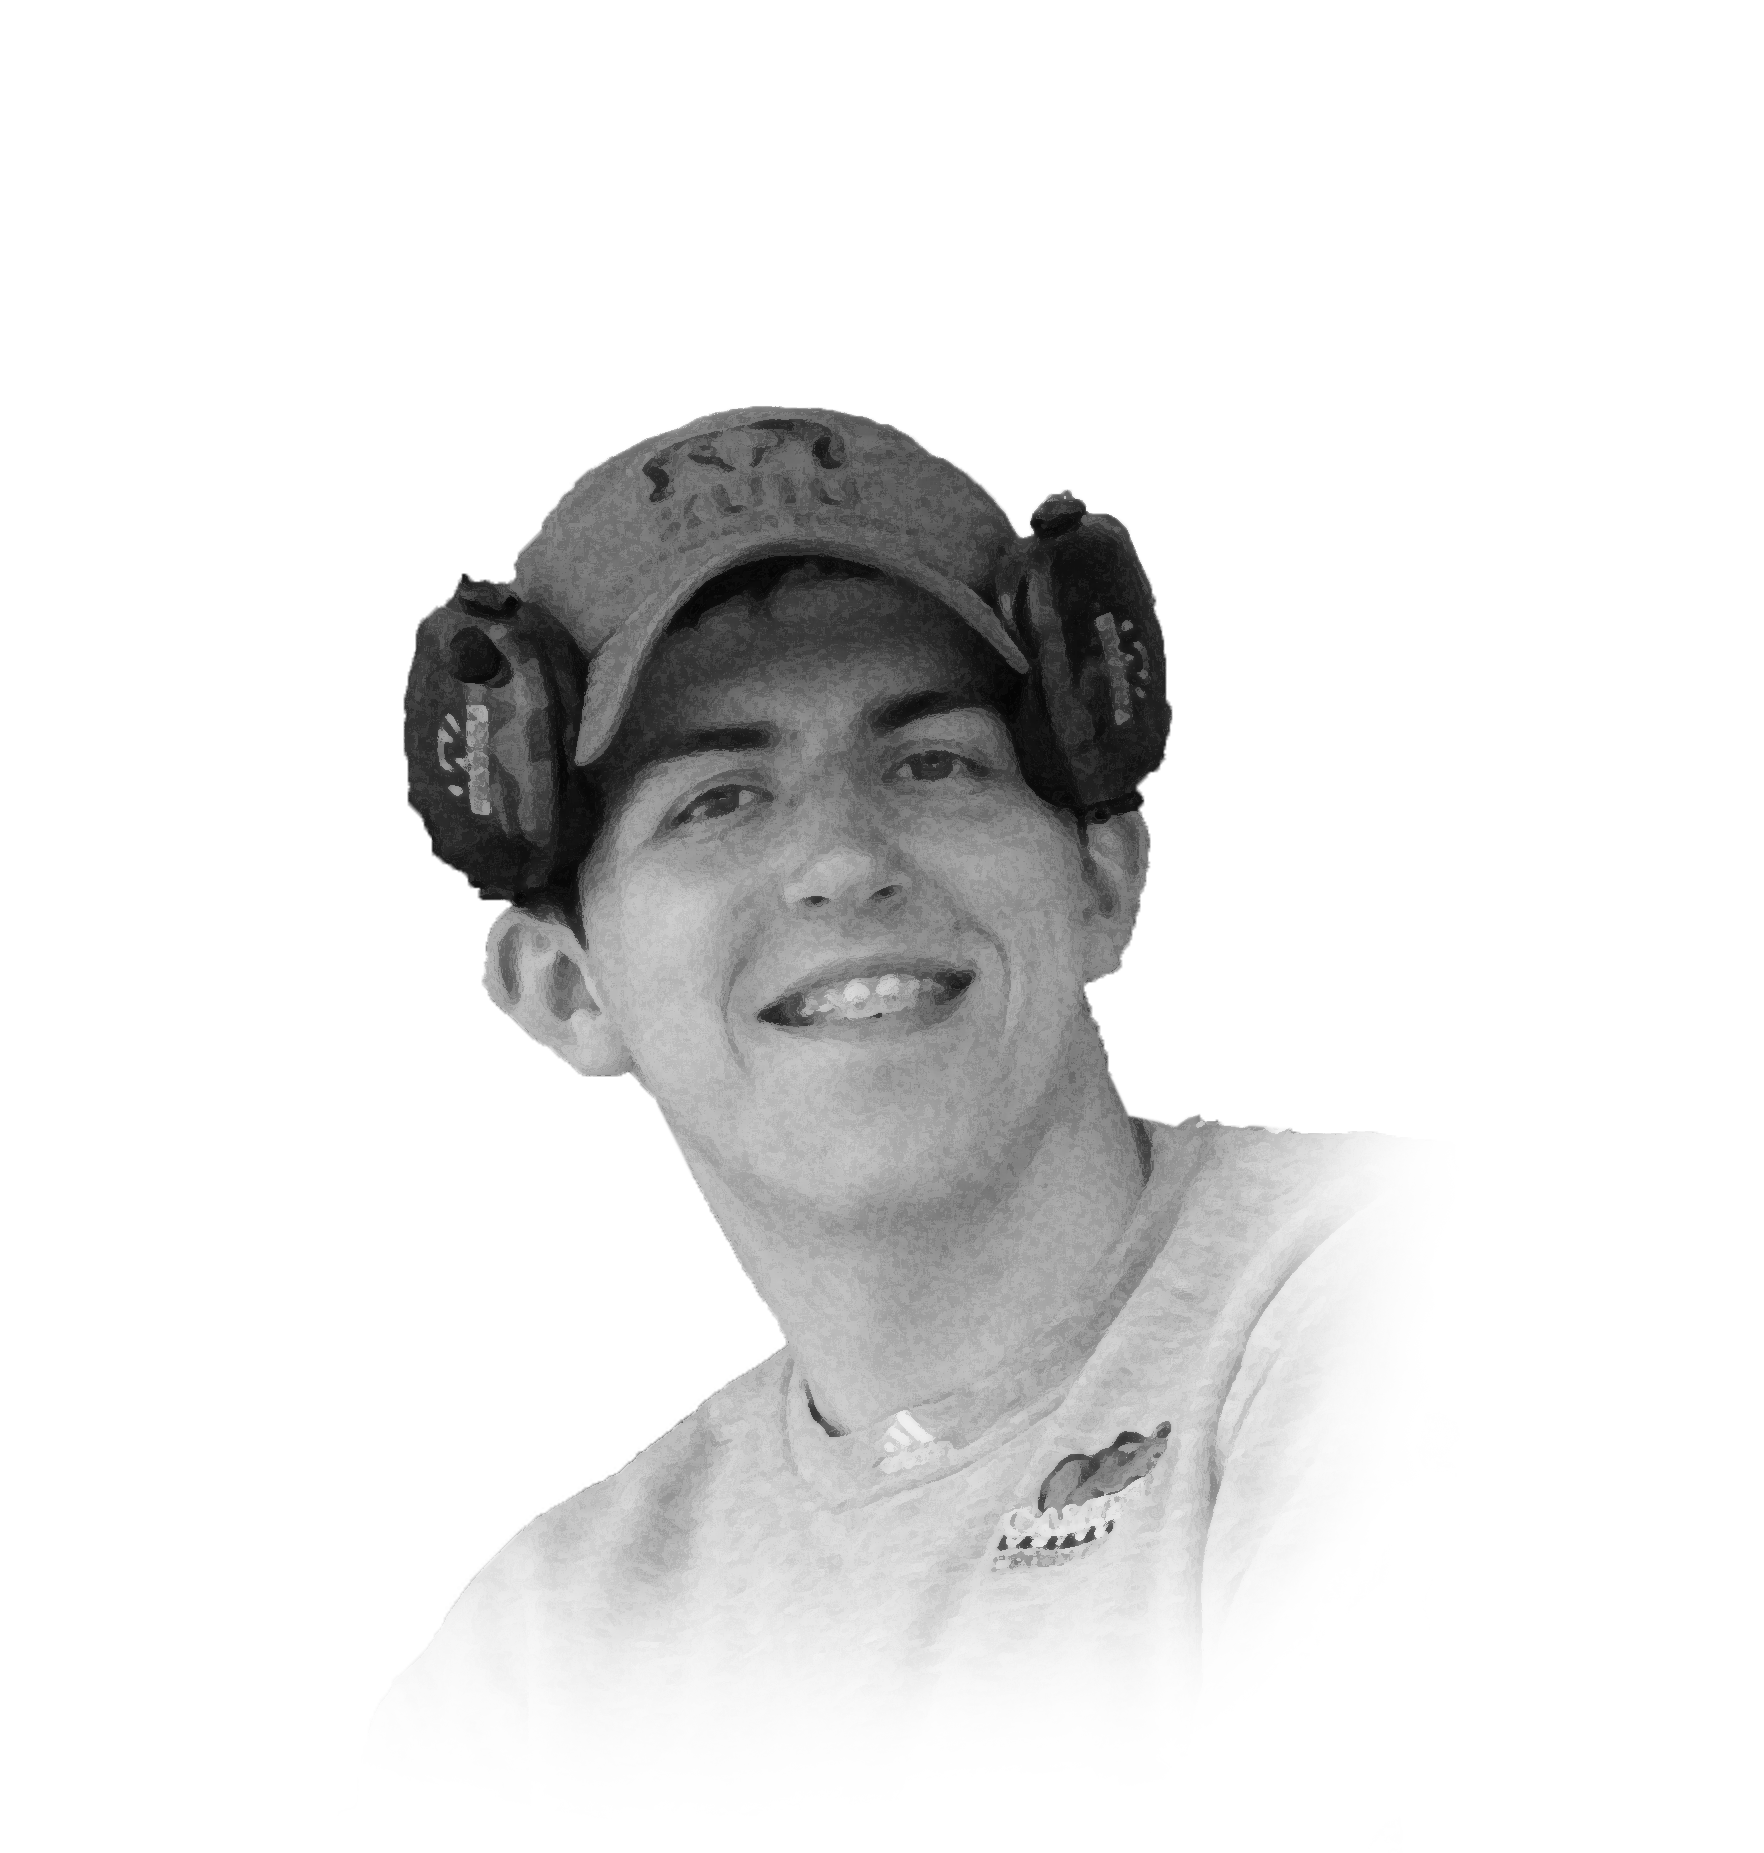
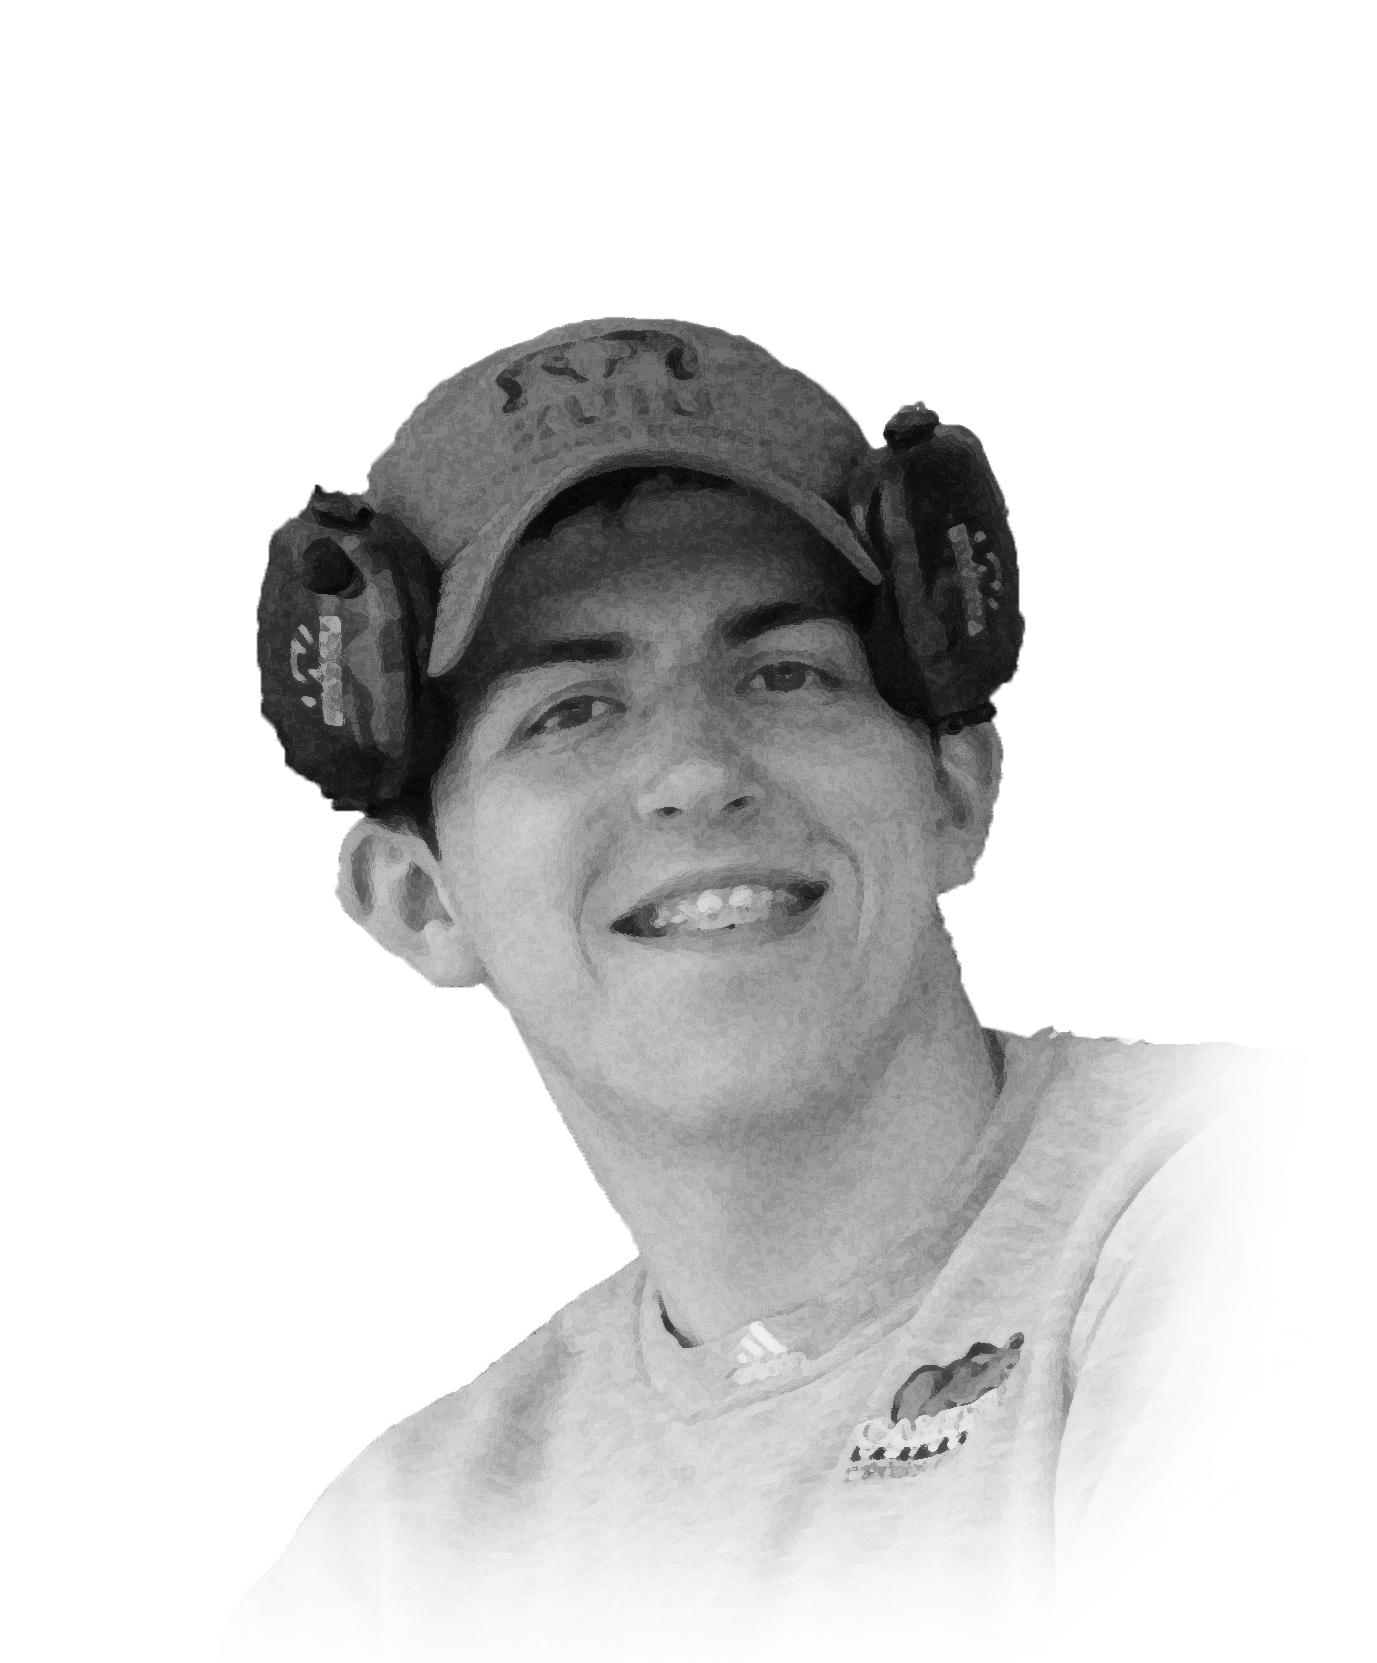
updating nav bar and cursour

diff --git a/main.css b/main.css
@@ -1,23 +1,134 @@
 @import url('https://fonts.googleapis.com/css2?family=Merriweather:ital,wght@0,300;0,400;0,700;0,900;1,300;1,400;1,700;1,900&display=swap');
 
+/* mouse */
+html {
+    cursor: none;
+}
+
+body:hover > #trailer {
+    opacity: 1;
+}
+  
+#trailer {
+    height: 15px;
+    width: 15px;
+    background-color: rgba(255, 255, 255, 0);
+    border: rgba(255, 255, 255, 0.5) solid 3px;
+    border-radius: 15px;
+    
+    position: fixed;
+    left: 0px;
+    top: 0px;
+    z-index: 10000;
+    
+    pointer-events: none;
+    opacity: 0;
+    transition: opacity 500ms ease;
+    
+    display: grid;
+    place-items: center;
+} 
+/* mouse */
+
 body {
     margin: 0;
     padding: 0;
     background-color: #00021e;
     font-family: 'Merriweather', serif;
+    overflow-x: hidden;
+}
+
+nav {
+    padding: 100px;
 }
 
 .landingContainer {
     height: 100vh;
-    display: grid;
-    place-content: center;
+    display: flex;
+    justify-content: center;
 }
+
+.navbox {
+    display: flex;
+    align-items: center;
+    height: 200px;
+    position: absolute;
+}
+
+.navli  {
+    color: white;
+    list-style: none;
+    font-size: 2rem;
+    font-weight: 700;
+    text-transform: uppercase;
+    opacity: 0;
+    padding-left: 50px;
+    padding-right: 50px;
+    transition: ease .3s;
+}
+
+.nav1 {
+    transform: translateX(250%);
+}
+.nav2 {
+    transform: translateX(100%);
+    padding-right: 400px;
+}
+.nav3 {
+    transform: translateX(-100%);
+}
+.nav4 {
+    transform: translateX(-200%);
+}
+
+.navtoggle {
+    transform: translateX(0);
+    opacity: 1;
+    transition: ease .3s;
+}
+
 
 .profileImg {
-    width: 500px;
+    width: 200px;
+    height: 200PX;
+    object-fit: cover;
     border-radius: 100%;
+    border: 1PX solid rgba(255, 255, 255, 0.1);
+    background: linear-gradient(150deg, rgba(255, 255, 255, 0) 20%, rgba(255, 255, 255, 0.05) 100%);
+    transition: ease .2s;
 }
 
+.img {
+    position: relative;
+    width: 100%;
+    height: 200px;
+    display: flex;
+    justify-content: center;
+}
+
+.glowicon {
+    box-shadow: 0px 0px 40px 30px rgba(18, 1, 47, 0.5);
+    transition: ease .2s;
+}
+
+.outerimg {
+    position: absolute;
+    border: 1PX solid rgba(255, 255, 255, 0.1);
+    width: 200px;
+    height: 200px;
+    border-radius: 100%;
+    animation: animate 1s infinite alternate-reverse;
+}
+
+@keyframes animate {
+    100% {
+        transform: scale(1.1);
+    }
+    0% {
+        transition: ease-in-out 1s;
+        transform: scale(1.05);
+    }
+}
 
 colors {
     color: #00021e

diff --git a/index.js b/index.js
@@ -1,0 +1,49 @@
+const profileBtn = document.querySelector(".profileImg");
+const box = document.querySelectorAll(".navli");
+
+
+profileBtn.addEventListener("click", () => {
+    profileBtn.classList.toggle("glowicon");
+    box.forEach((e) => {
+        e.classList.toggle("navtoggle")
+    })
+})
+
+
+const trailer = document.getElementById("trailer");
+
+const animateTrailer = (e, interacting) => {
+  const x = e.clientX - trailer.offsetWidth / 2,
+        y = e.clientY - trailer.offsetHeight / 2;
+  
+  const keyframes = {
+    transform: `translate(${x}px, ${y}px) scale(${interacting ? 8 : 1})`
+  }
+  
+  trailer.animate(keyframes, { 
+    duration: 0, 
+    fill: "forwards" 
+  });
+}
+
+const getTrailerClass = type => {
+  switch(type) {
+    case "video":
+      return "fa-solid fa-play";
+    default:
+      return "fa-solid fa-arrow-up-right"; 
+  }
+}
+
+window.onmousemove = e => {
+  const interactable = e.target.closest(".interactable"),
+        interacting = interactable !== null;
+    
+  animateTrailer(e, interacting);
+  
+  trailer.dataset.type = interacting ? interactable.dataset.type : "";
+  
+  if(interacting) {
+    icon.className = getTrailerClass(interactable.dataset.type);
+  }
+}

diff --git a/index.html b/index.html
@@ -8,10 +8,23 @@
     <title>Oatmeal</title>
 </head>
 <body>
-    <main>
+    <div id="trailer">
+        <i id="trailer-icon" class="fa-solid fa-arrow-up-right"></i>
+      </div>
+    <nav>
         <div class="landingContainer">
-            <img class="profileImg" src="/personal/img/profileimg.png">
+            <div class="navbox">
+                <div class="navli nav1">About</div>
+                <div class="navli nav2">Portfolio</div>
+                <div class="navli nav3">Services</div>
+                <div class="navli nav4">Contact</div>
+            </div>
+            <div class="outerimg"></div>
+            <div class="img">
+                <img class="profileImg" src="/personal/img/profileimg.png">
+            </div> 
         </div>
-    </main>
+    </nav>
+    <script src="index.js"></script>
 </body>
 </html>
